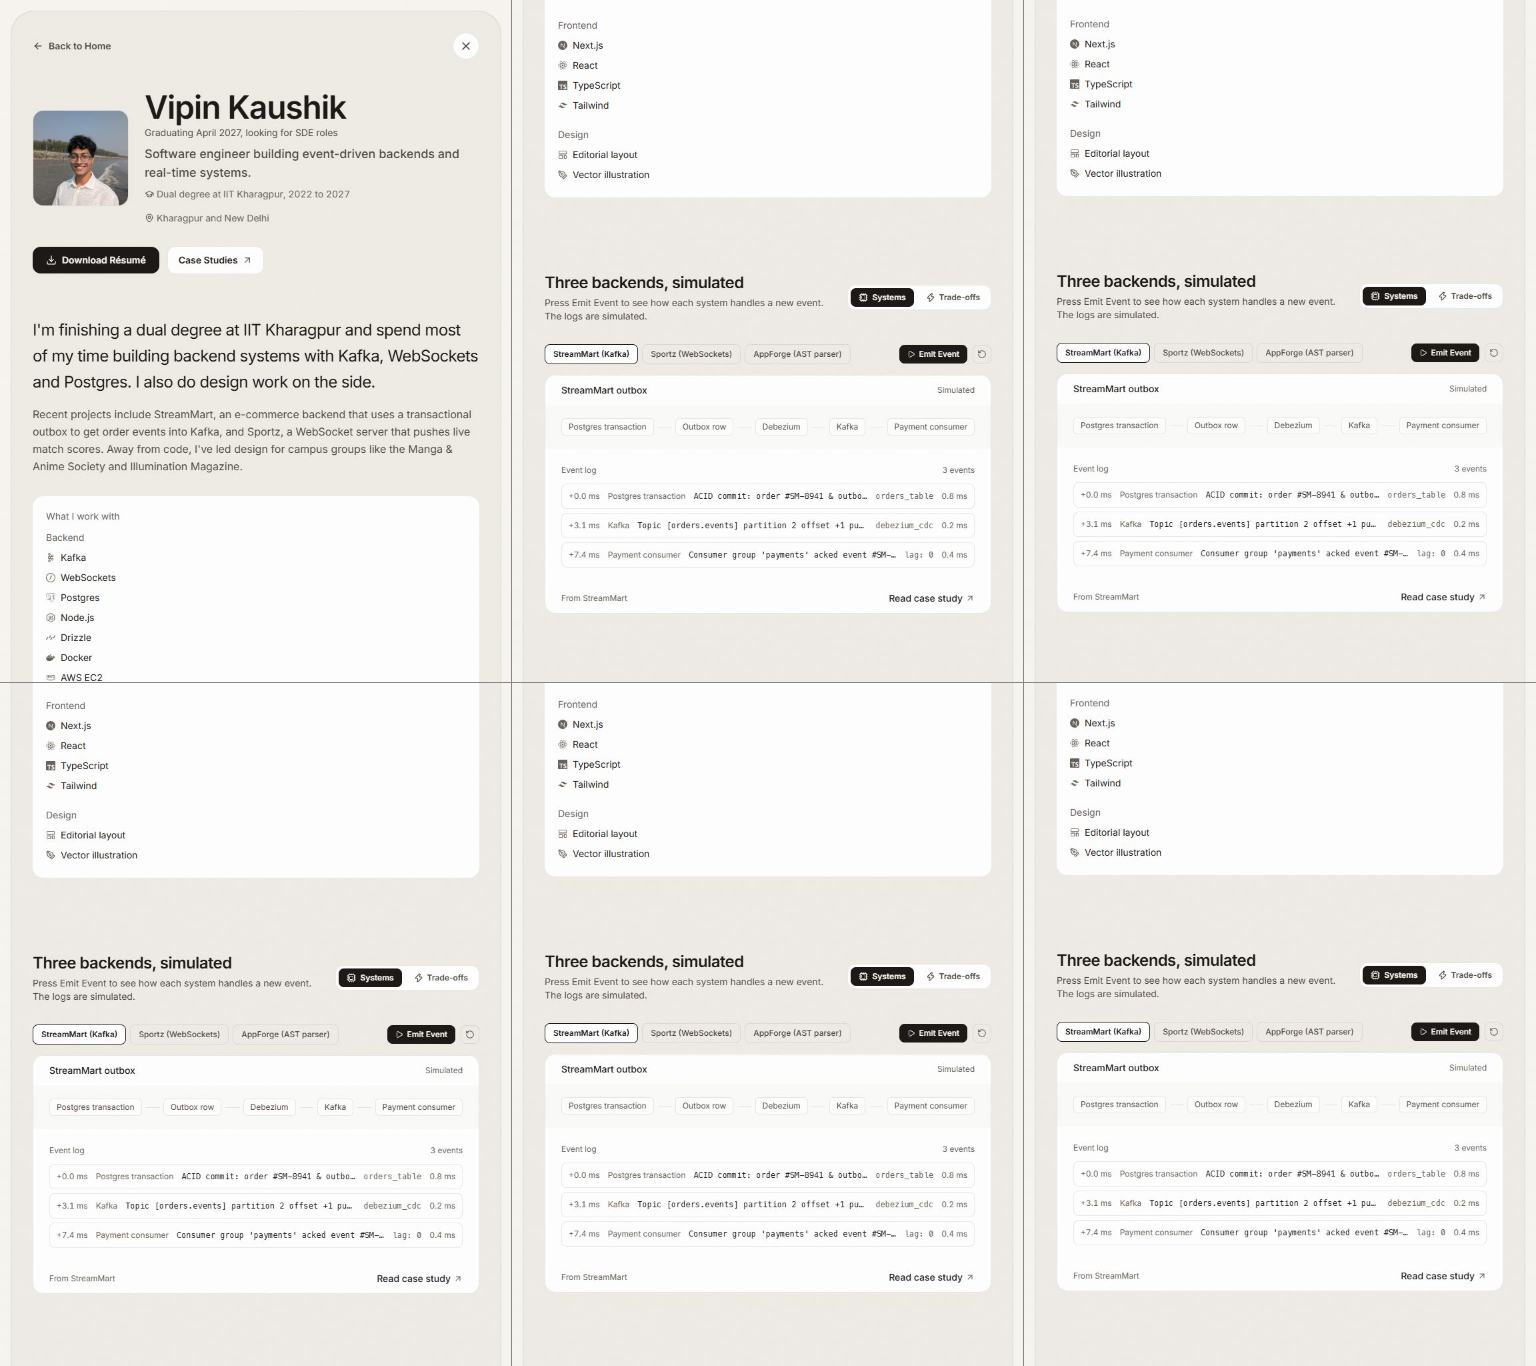
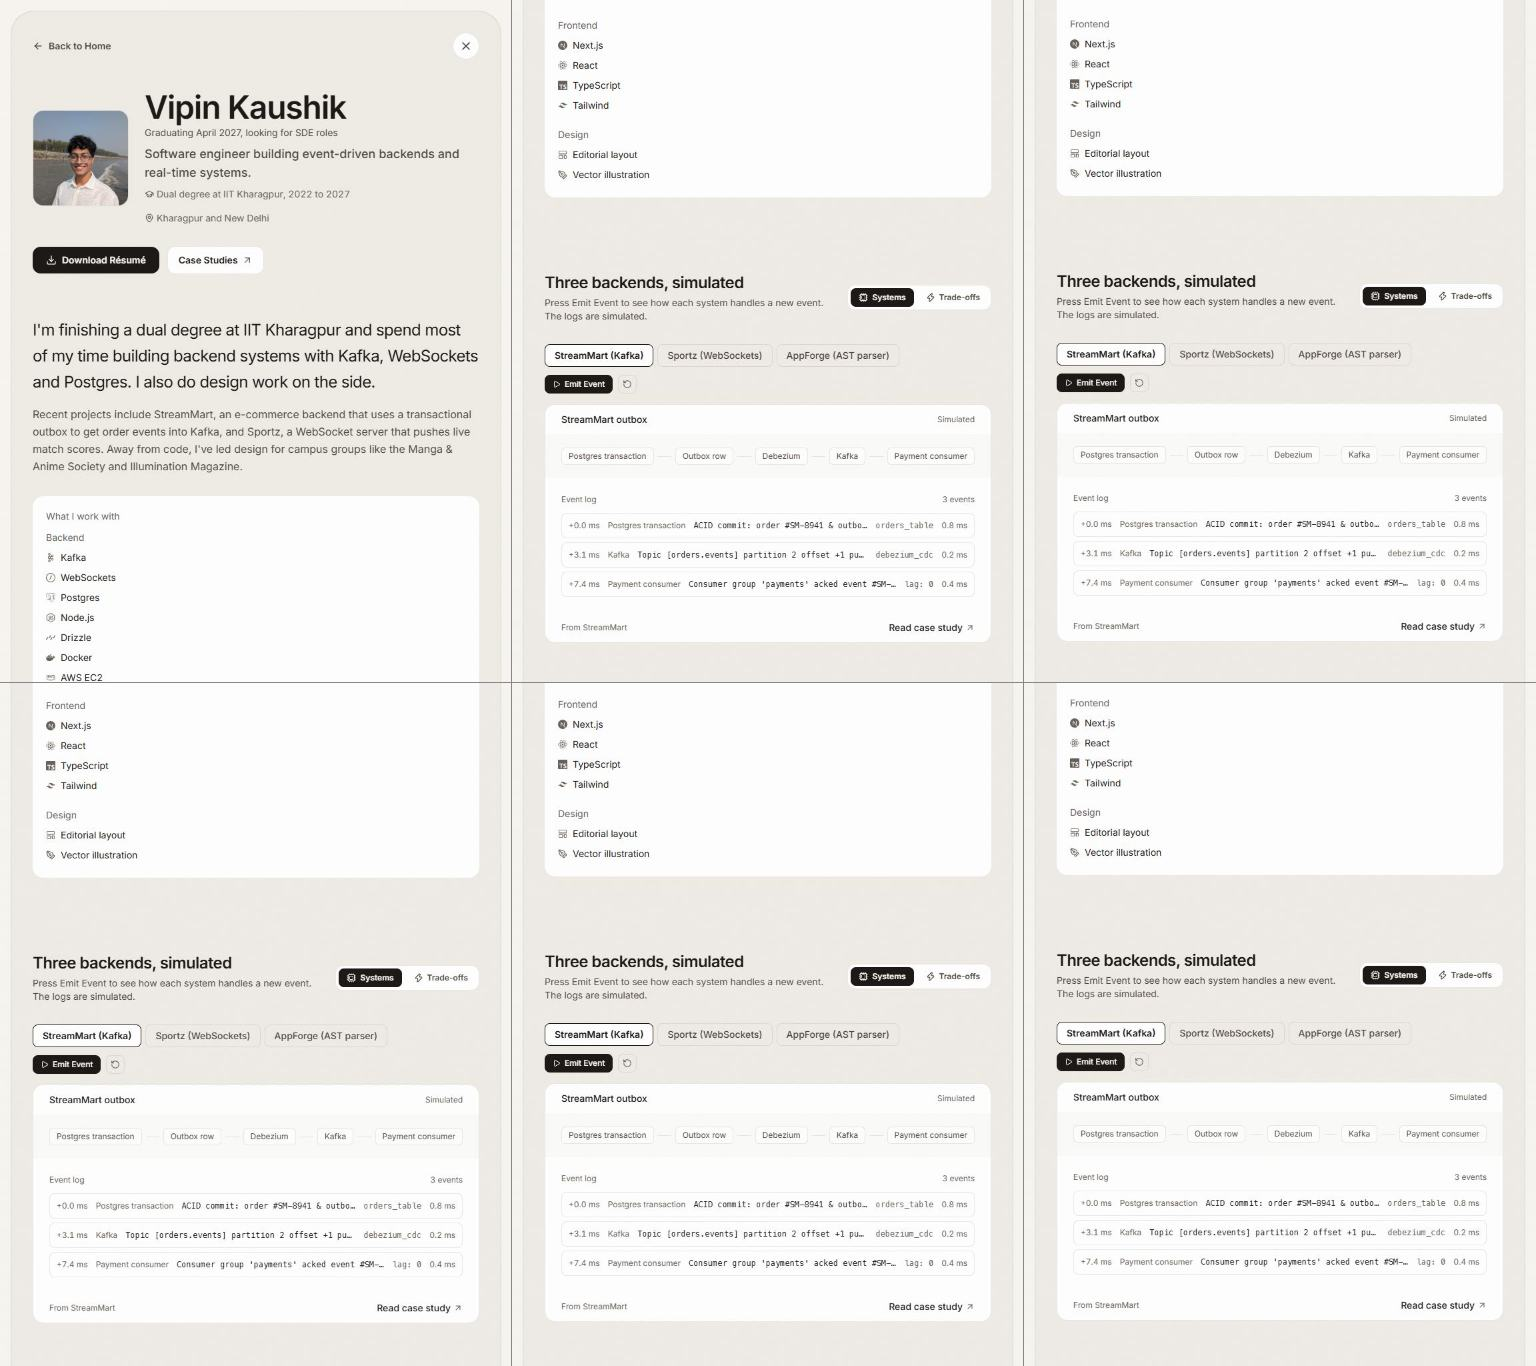
style(about): timeline and pipeline switcher button styling

diff --git a/components/about/AboutWorkbench.tsx b/components/about/AboutWorkbench.tsx
@@ -366,13 +366,13 @@ export function AboutWorkbench() {
       {mode === "systems" && (
         <div className="space-y-4">
           <div className="flex flex-wrap items-center justify-between gap-3">
-            <div className="flex items-center gap-1.5">
+            <div data-ui="pipeline-switcher" className="flex items-center gap-1.5">
               <button
                 onClick={() => {
                   setSystemsTab("kafka");
                   setActiveStageIndex(null);
                 }}
-                className={`px-3 py-1.5 rounded-lg text-xs font-medium border transition-colors cursor-pointer focus-visible:outline-none focus-visible:ring-1 focus-visible:ring-[var(--border-focus)] ${
+                className={`px-3.5 py-1.5 rounded-lg text-sm font-medium border transition-colors cursor-pointer focus-visible:outline-none focus-visible:ring-1 focus-visible:ring-[var(--border-focus)] ${
                   systemsTab === "kafka"
                     ? "bg-[var(--surface-tile)] border-[var(--text-primary)] text-[var(--text-primary)] font-semibold"
                     : "bg-transparent border-[var(--border-subtle)] text-[var(--text-secondary)] hover:border-[var(--border-hover)]"
@@ -385,7 +385,7 @@ export function AboutWorkbench() {
                   setSystemsTab("sockets");
                   setActiveStageIndex(null);
                 }}
-                className={`px-3 py-1.5 rounded-lg text-xs font-medium border transition-colors cursor-pointer focus-visible:outline-none focus-visible:ring-1 focus-visible:ring-[var(--border-focus)] ${
+                className={`px-3.5 py-1.5 rounded-lg text-sm font-medium border transition-colors cursor-pointer focus-visible:outline-none focus-visible:ring-1 focus-visible:ring-[var(--border-focus)] ${
                   systemsTab === "sockets"
                     ? "bg-[var(--surface-tile)] border-[var(--text-primary)] text-[var(--text-primary)] font-semibold"
                     : "bg-transparent border-[var(--border-subtle)] text-[var(--text-secondary)] hover:border-[var(--border-hover)]"
@@ -398,7 +398,7 @@ export function AboutWorkbench() {
                   setSystemsTab("ast");
                   setActiveStageIndex(null);
                 }}
-                className={`px-3 py-1.5 rounded-lg text-xs font-medium border transition-colors cursor-pointer focus-visible:outline-none focus-visible:ring-1 focus-visible:ring-[var(--border-focus)] ${
+                className={`px-3.5 py-1.5 rounded-lg text-sm font-medium border transition-colors cursor-pointer focus-visible:outline-none focus-visible:ring-1 focus-visible:ring-[var(--border-focus)] ${
                   systemsTab === "ast"
                     ? "bg-[var(--surface-tile)] border-[var(--text-primary)] text-[var(--text-primary)] font-semibold"
                     : "bg-transparent border-[var(--border-subtle)] text-[var(--text-secondary)] hover:border-[var(--border-hover)]"

diff --git a/components/about/AboutTimeline.tsx b/components/about/AboutTimeline.tsx
@@ -154,7 +154,7 @@ export function AboutTimeline() {
               onClick={() => setActiveId(m.id)}
               className={`p-3 rounded-xl text-left transition-colors duration-200 cursor-pointer focus-visible:outline-none focus-visible:ring-2 focus-visible:ring-neutral-400 ${
                 isActive
-                  ? "bg-[var(--surface-tile-elevated)] ring-1 ring-[var(--text-primary)]"
+                  ? "bg-[var(--surface-tile-elevated)] outline outline-1 outline-[var(--text-primary)]"
                   : "bg-[var(--surface-tile)] hover:bg-[var(--surface-tile-hover)] opacity-85 hover:opacity-100"
               }`}
             >
